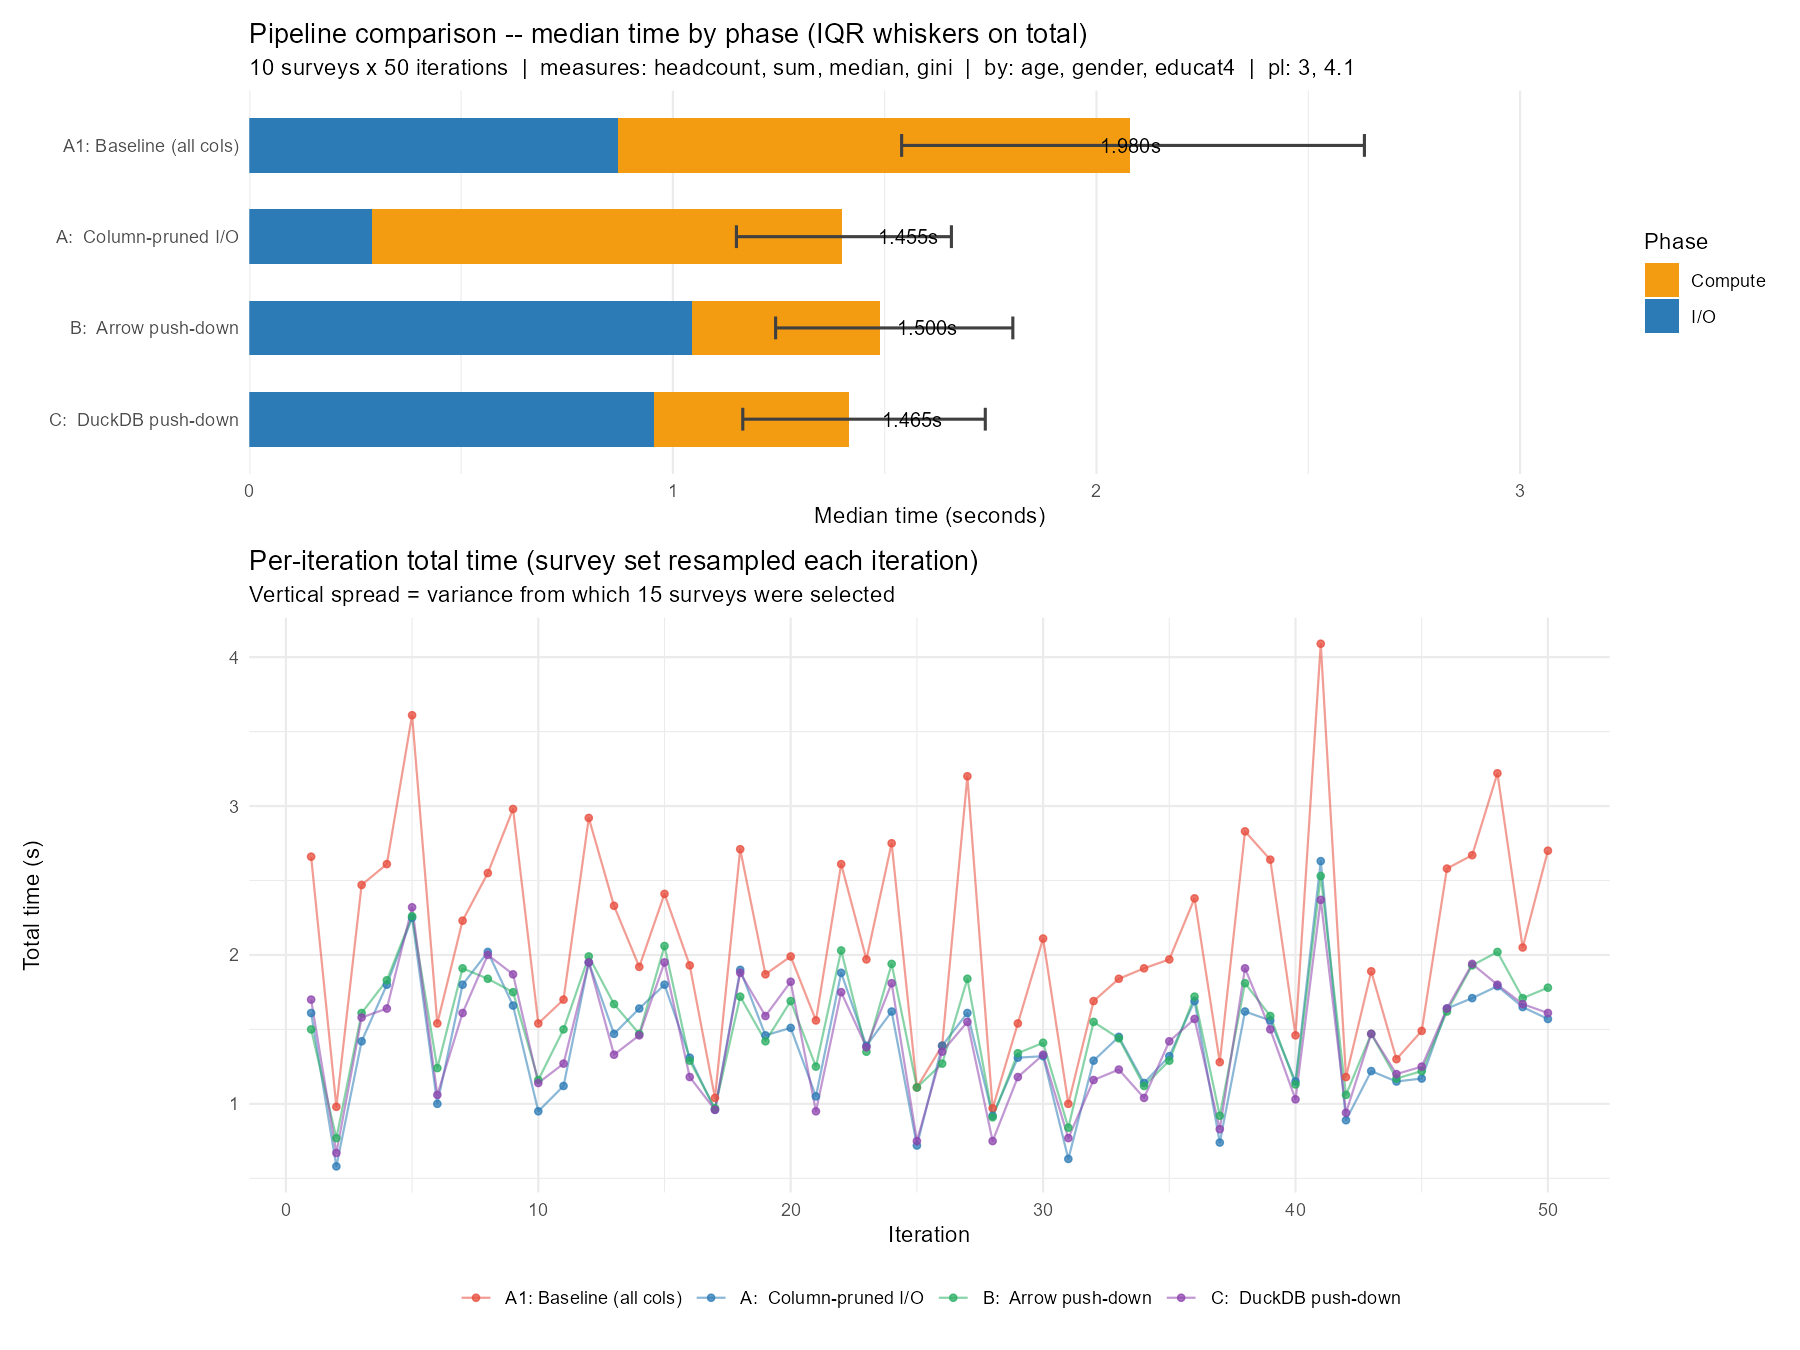
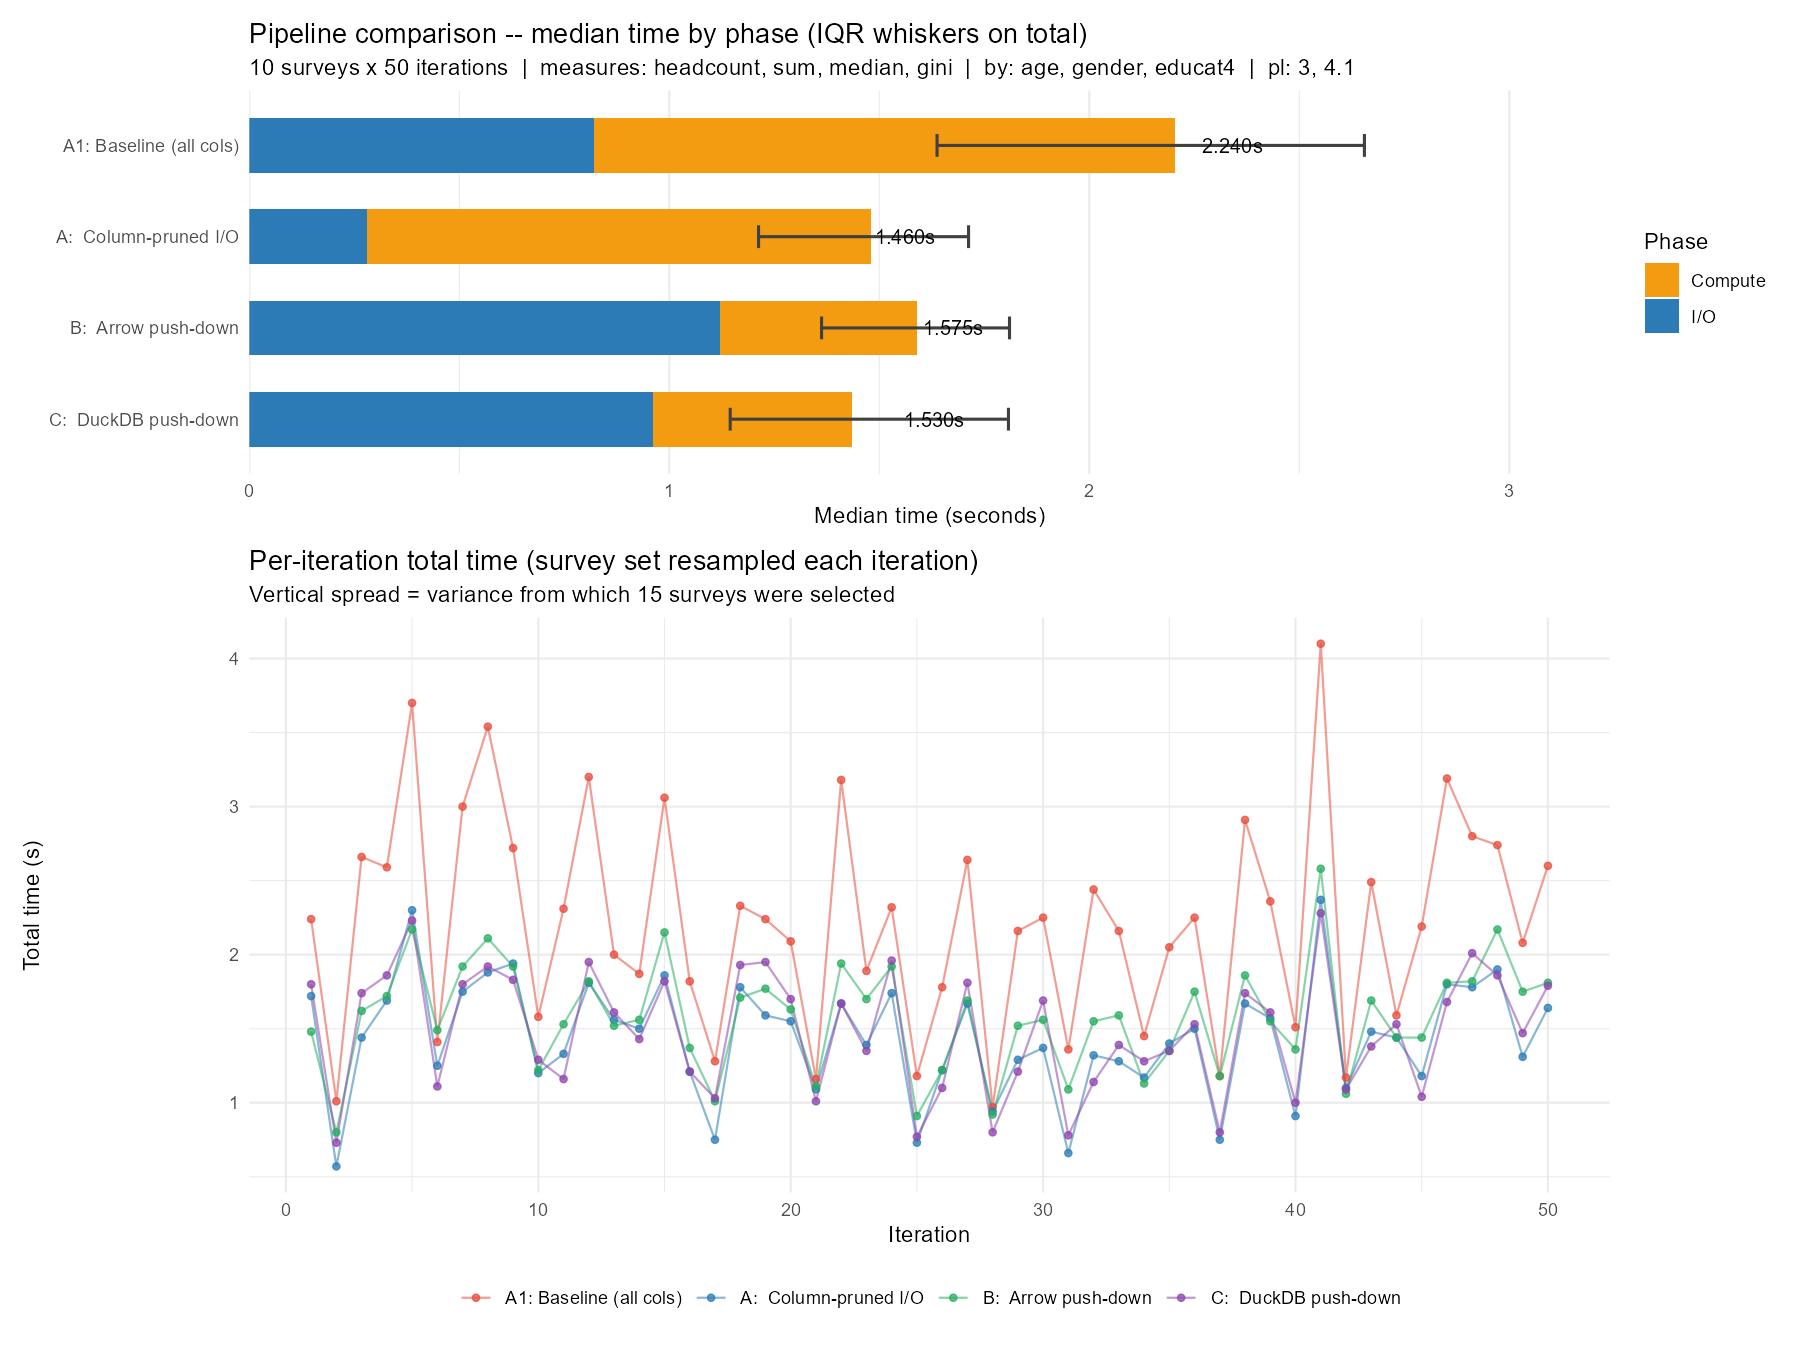
new comparison results

diff --git a/.cg-docs/solutions/performance-issues/2026-04-29-pipeline-comparison-results.md b/.cg-docs/solutions/performance-issues/2026-04-29-pipeline-comparison-results.md
@@ -47,27 +47,27 @@ tags: [performance, arrow, io, benchmark, pipeline]
 ```
                   approach I/O med (s) CMP med (s) Total med (s) Total p25 (s) Total p75 (s)
                     <char>       <num>       <num>         <num>         <num>         <num>
-1: A1: Baseline (all cols)       0.870       1.210         1.980         1.540         2.632
-2:   A:  Column-pruned I/O       0.290       1.110         1.455         1.150         1.657
-3:     B:  Arrow push-down       1.045       0.445         1.500         1.243         1.803
-4:    C:  DuckDB push-down       0.955       0.460         1.465         1.165         1.738
+1: A1: Baseline (all cols)        0.82       1.385         2.240         1.638         2.655
+2:   A:  Column-pruned I/O        0.28       1.200         1.460         1.213         1.712
+3:     B:  Arrow push-down        1.12       0.470         1.575         1.363         1.810
+4:    C:  DuckDB push-down        0.96       0.475         1.530         1.145         1.807
 ```
 
 ## Speedup Summary
 
 | Comparison | I/O speedup | Total speedup | Decision |
 | ---------- | ----------- | ------------- | -------- |
-| A vs A1 | 67% faster | 27% faster | ADOPT |
-| B vs A | same as A | 3% slower | KEEP A |
-| C vs A | same as A | 1% slower | KEEP A |
+| A vs A1 | 66% faster | 35% faster | ADOPT |
+| B vs A | same as A | 8% slower | KEEP A |
+| C vs A | same as A | 5% slower | KEEP A |
 
 ## Decisions
 
-**A vs A1**: ADOPT column pruning in load_surveys(): Approach A is **27% faster** total vs A1 (I/O alone: 67% faster).
+**A vs A1**: ADOPT column pruning in load_surveys(): Approach A is **35% faster** total vs A1 (I/O alone: 66% faster).
 
-**B vs A**: KEEP Approach A compute path: Approach B is only 3% slower total vs A -- below the 15% threshold.
+**B vs A**: KEEP Approach A compute path: Approach B is only 8% slower total vs A -- below the 15% threshold.
 
-**C vs A**: KEEP Approach A compute path: Approach C is only 1% slower total vs A -- below the 15% threshold.
+**C vs A**: KEEP Approach A compute path: Approach C is only 5% slower total vs A -- below the 15% threshold.
 
 ## Correctness
 
@@ -75,4 +75,4 @@ tags: [performance, arrow, io, benchmark, pipeline]
 - B  vs A1 (all measures): PASS
 - C  vs A1 (all measures): PASS
 
-*Generated: 2026-05-04 10:48*
+*Generated: 2026-05-04 14:05*
